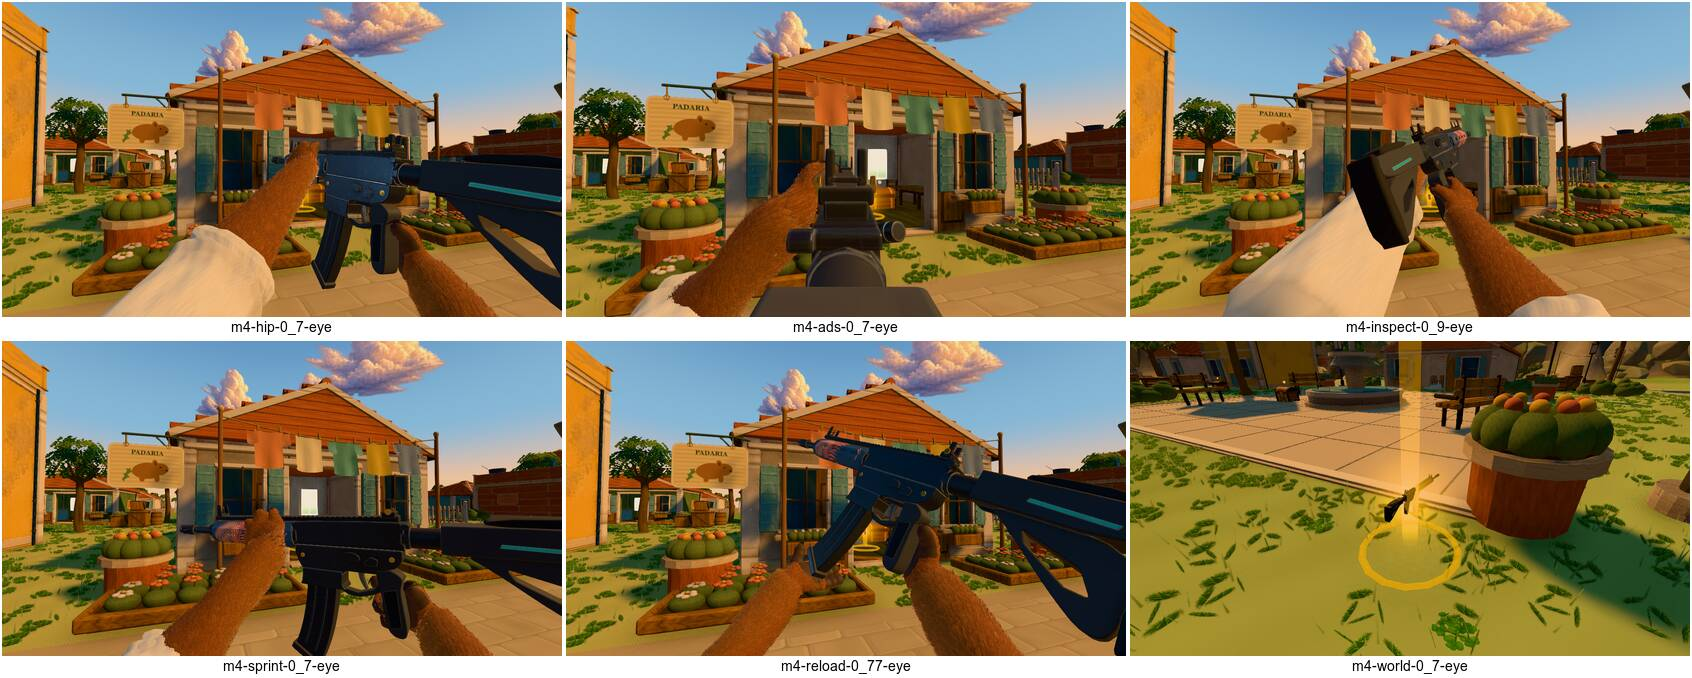
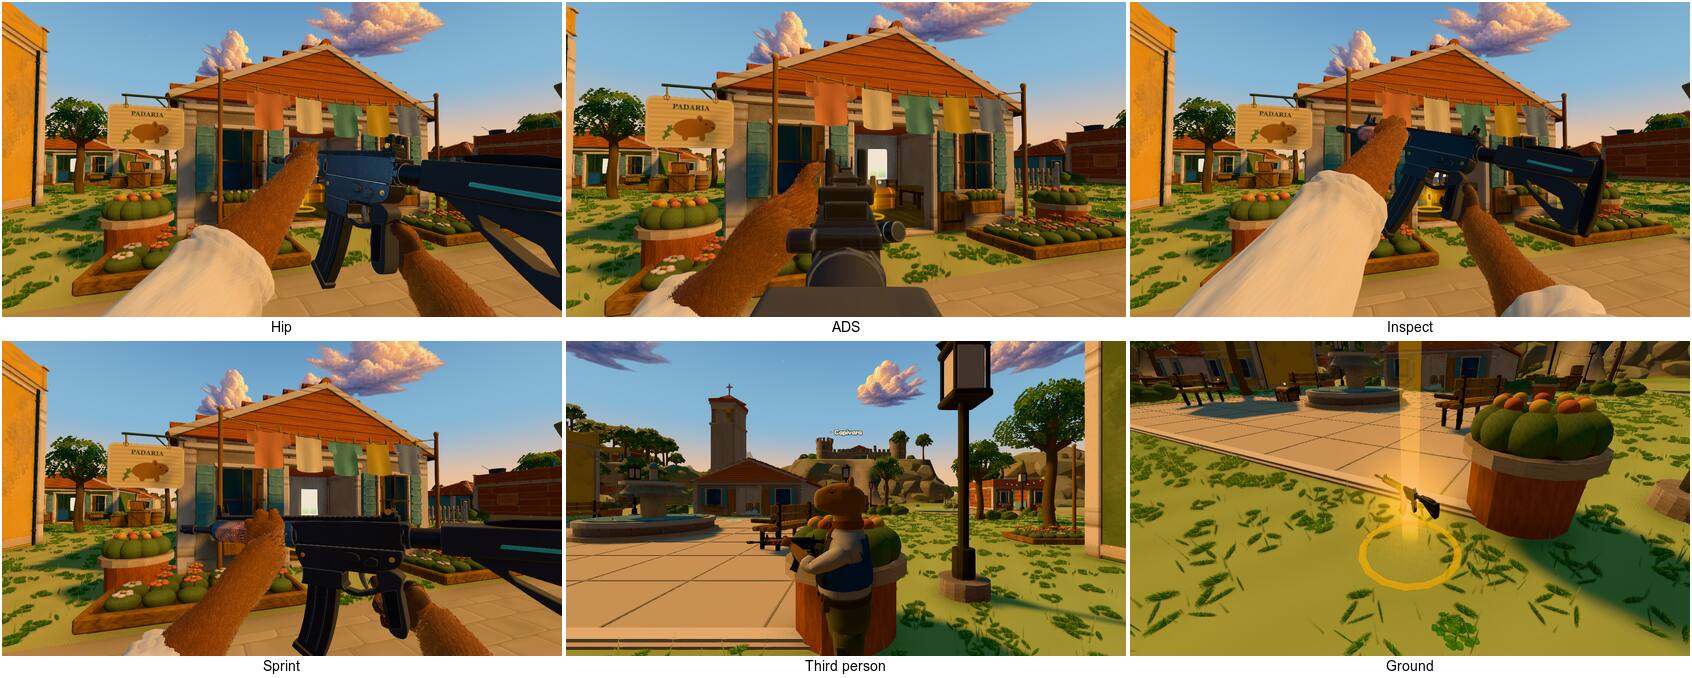
Record final long gun review and visual evidence

diff --git a/docs/overhaul/guns-long-report.md b/docs/overhaul/guns-long-report.md
@@ -1,0 +1,87 @@
+# Long-gun overhaul
+
+Status: all five weapons completed and reviewed against the supplied design, first-person and reload references.
+
+Scope: `m4`, `shotgun`, `sniper`, `dmr`, `coco`, in the `guns-long` worktree. The sculpted arm assets and arm solver were not changed. Final gameplay captures use real Chrome with ANGLE Metal at 1280 x 720 and the medium preset. Baseline contact sheets retain the earlier 960 x 540 captures. No Playwright e2e suite was run.
+
+## Asset budgets
+
+| Weapon | FP triangles | Packed GLB bytes | World near triangles | World far triangles |
+| --- | ---: | ---: | ---: | ---: |
+| m4 | 22,130 | 726,996 | 2,400 | 418 |
+| shotgun | 20,842 | 596,224 | 2,400 | 418 |
+| sniper | 21,740 | 627,540 | 2,400 | 410 |
+| dmr | 23,006 | 723,064 | 2,392 | 416 |
+| coco | 24,466 | 829,812 | 2,372 | 404 |
+
+All packed weapons remain below 25,000 triangles and 1.3 MB. M4 uses 2048 albedo and 1024 normal/ORM; the other weapons use 1024 maps. Third-person and ground models use near/far LODs and one 1024 atlas. The pistol, revolver, SMG and machete geometry and decoded atlas cells are unchanged from `9934dda`.
+
+## M4
+
+Preserved the navy, coral and brass model, livery and open rear notch. The packed asset now keeps authored, unscaled frames for its moving parts. Rebuilt the firing-paw wrap and fitted the support paw over the rear handguard. Raised the hip composition, authored a lower sprint carry and added a broadside inspect that exposes the receiver and furniture. Tactical reloads remove the curved magazine, seat the replacement with a palm push and return to support. Empty reloads add a part-driven bolt-catch slap. Magazine rotation and the carrying paw share the same frame.
+
+Before: [M4 contact sheet](evidence/guns/m4-before.jpg). After: [gameplay views](evidence/guns/m4-after.jpg), [reload and mechanism views](evidence/guns/m4-reload.jpg).
+
+Known issues: no outstanding issue in the reviewed poses. The tightest sampled contact is -0.4 mm during trigger movement, within the requested -0.5 mm tolerance.
+
+## Doze
+
+Rebuilt the receiver, vented rib, walnut stock and continuous ribbed pump, with brass hardware, teal foliage, red recoil pad and four-shell saddle. Slimmed the stock wrist for the paw and lengthened the action bars. The pump now stops ahead of the receiver throughout its travel. Opened the underside loading gate and moved the lifter above the shell path. Lowered the rear ramp after the gameplay view revealed that it blocked the front bead.
+
+Reloads retain the authoritative 0.55-second shell segments, carry a visible red shell, lift it into the tube axis and push its case head with the thumb. A reload sequence that began empty adds one final pump after loading finishes; tactical loading leaves the chamber undisturbed.
+
+Before: [Doze contact sheet](evidence/guns/shotgun-before.jpg). After: [gameplay views](evidence/guns/shotgun-after.jpg), [reload and mechanism views](evidence/guns/shotgun-reload.jpg).
+
+Known issues: no outstanding issue in the reviewed poses. The final empty pump is presentation state and remains interruptible by firing or switching weapons; authoritative shell timing is unchanged.
+
+## Sniper
+
+Rebuilt the carved walnut thumbhole stock, cheek rest, fluted barrel, three-port brake, folded bipod and brass-banded scope with turrets and flip caps. Shaped the grip waist and thumb window for the paw, with a right-side wrist relief that preserves the left stock silhouette. The firing paw follows the bolt knob through lift, pull, push and lock between shots. Tactical reloads replace only the magazine. Empty reloads open the bolt before the magazine work and close it after the support paw has returned. The choreography always retains one gripping paw.
+
+Before: [Sniper contact sheet](evidence/guns/sniper-before.jpg). After: [gameplay views](evidence/guns/sniper-after.jpg), [reload and mechanism views](evidence/guns/sniper-reload.jpg).
+
+Known issues: no outstanding issue in the reviewed poses. The tightest sampled contact is -0.1 mm during bolt extraction, within the requested tolerance.
+
+## Carabina
+
+Rebuilt the olive receiver, walnut furniture, cooling slots, curved magazine, side charging handle, brass/tan optic and hanging sling. Painted coral fronds and teal accents into the wood. The sling has a smooth leather curve, edge seams and a brass buckle. Its distant LOD preserves the lower outline while retaining the barrel and stock. Magazine swaps keep the support paw attached to the magazine. Empty reloads restore support before the firing paw operates the right-side charging handle.
+
+Before: [Carabina contact sheet](evidence/guns/dmr-before.jpg). After: [gameplay views](evidence/guns/dmr-after.jpg), [reload and mechanism views](evidence/guns/dmr-reload.jpg).
+
+Known issues: no outstanding issue in the reviewed poses. The sling is rigid authored geometry; its shape stays clear of the firing forearm throughout the reviewed motions.
+
+## Lança-coco
+
+Rebuilt the bamboo-yellow tube, flared wood/brass bell, sprung action, separate wooden pump and open painted hopper. A domed service cap closes the breech, and a larger parrot portrait reads on the hopper. Three independent fruits fill its visible pockets. The offset sight lane avoids the hopper; the front leaf now faces the eye. Reloads add exactly the missing fruits. An empty refill fills the hopper, racks one fruit into the chamber and tops up the freed pocket. Partial reloads preserve the chamber and skip the rack. The refill stays lower and farther from the eye so the complete carrying path stays in frame. This respects the game's four-round capacity; the generated three-fruit reference does not account for the chambered round.
+
+Before: [Lança-coco contact sheet](evidence/guns/coco-before.jpg). After: [gameplay views](evidence/guns/coco-after.jpg), [reload and mechanism views](evidence/guns/coco-reload.jpg).
+
+Known issues: no outstanding issue in the reviewed poses. The hopper holds three visible fruits plus one chambered round, so an empty refill deliberately includes a fourth insertion after the pump.
+
+## Verification
+
+- `npx tsc --noEmit`: passed.
+- `npx vitest run --maxWorkers=1`, using Node 24.20.0: all 736 tests passed in 96 files. This includes 40 viewmodel tests, the ADS alignment checks, packed moving-part pivots and world-LOD bounds.
+- Reload tests cover chamber preservation on tactical reloads, magazine anchoring, continuous rifle support, the sniper's complete bolt stroke and foley, six sequential shotgun shells with a single final empty pump, and all four coconut refill counts.
+- Reviewed hip, ADS, sprint, inspect, empty/tactical reloads and shot mechanisms from the eye and additional side/underside angles in real Chrome. The saved final capture set contains 267 images; the report retains 15 comparison and mechanism sheets, each below 300,000 bytes.
+- Rebuilt and reviewed third-person and ground versions for all five weapons. Measured packed byte counts match the actual GLBs.
+- No sculpted paw asset or arm solver changes. No defect in those assets was established.
+
+The contact probe measures the full-resolution skinned paw and wrist against the actual posed weapon triangles, including visible moving parts. Dense reload scans, key poses, transition samples and follow-up scans of corrected paths all clear the requested worst-contact threshold of greater than -0.5 mm. These are sampled measurements, supported by multi-angle visual review, rather than a mathematical guarantee over every possible input combination.
+
+| Weapon | Lowest accepted sampled contact | Mechanical coverage |
+| --- | ---: | --- |
+| M4 | -0.4 mm | Curved-magazine carry, palm seat, empty catch slap, tactical return |
+| Doze | 0.4 mm | Shell approach, loading-gate lift, thumb push, complete six-shell chain and final pump |
+| Sniper | -0.1 mm | Both complete reloads, open-bolt return, lift/pull/push/lock after firing |
+| Carabina | 0.2 mm | Both magazine reloads, support restored before side charging, sling/forearm clearance |
+| Lança-coco | 0.4 mm | All starting ammunition counts 0 through 3, hopper release paths, pump and top-up |
+
+The final review corrected the Doze loading thumb/guard crossing, sniper forearm/stock and magazine-digit contact, the open-bolt approach, and Lança-coco sprint and refill framing. Carabina's sparse sling anchors preserve its far-LOD silhouette without consuming the barrel's triangle budget. The final full suite passed after these corrections.
+
+To reproduce standard contact and image reviews with the QA dev server running on port 5177:
+
+```sh
+BASE=http://127.0.0.1:5177 node tools/qa/weapon-review.mjs output/review m4,shotgun,sniper,dmr,coco hip,ads,sprint,inspect,reload,reload-partial,fire eye,left,right,below
+BASE=http://127.0.0.1:5177 CAPTURE=0 node tools/qa/weapon-review.mjs output/review-aim m4,shotgun,sniper,dmr,coco aim,land eye .02,.06,.1,.14,.2,.3,.45,.65,.9
+```
